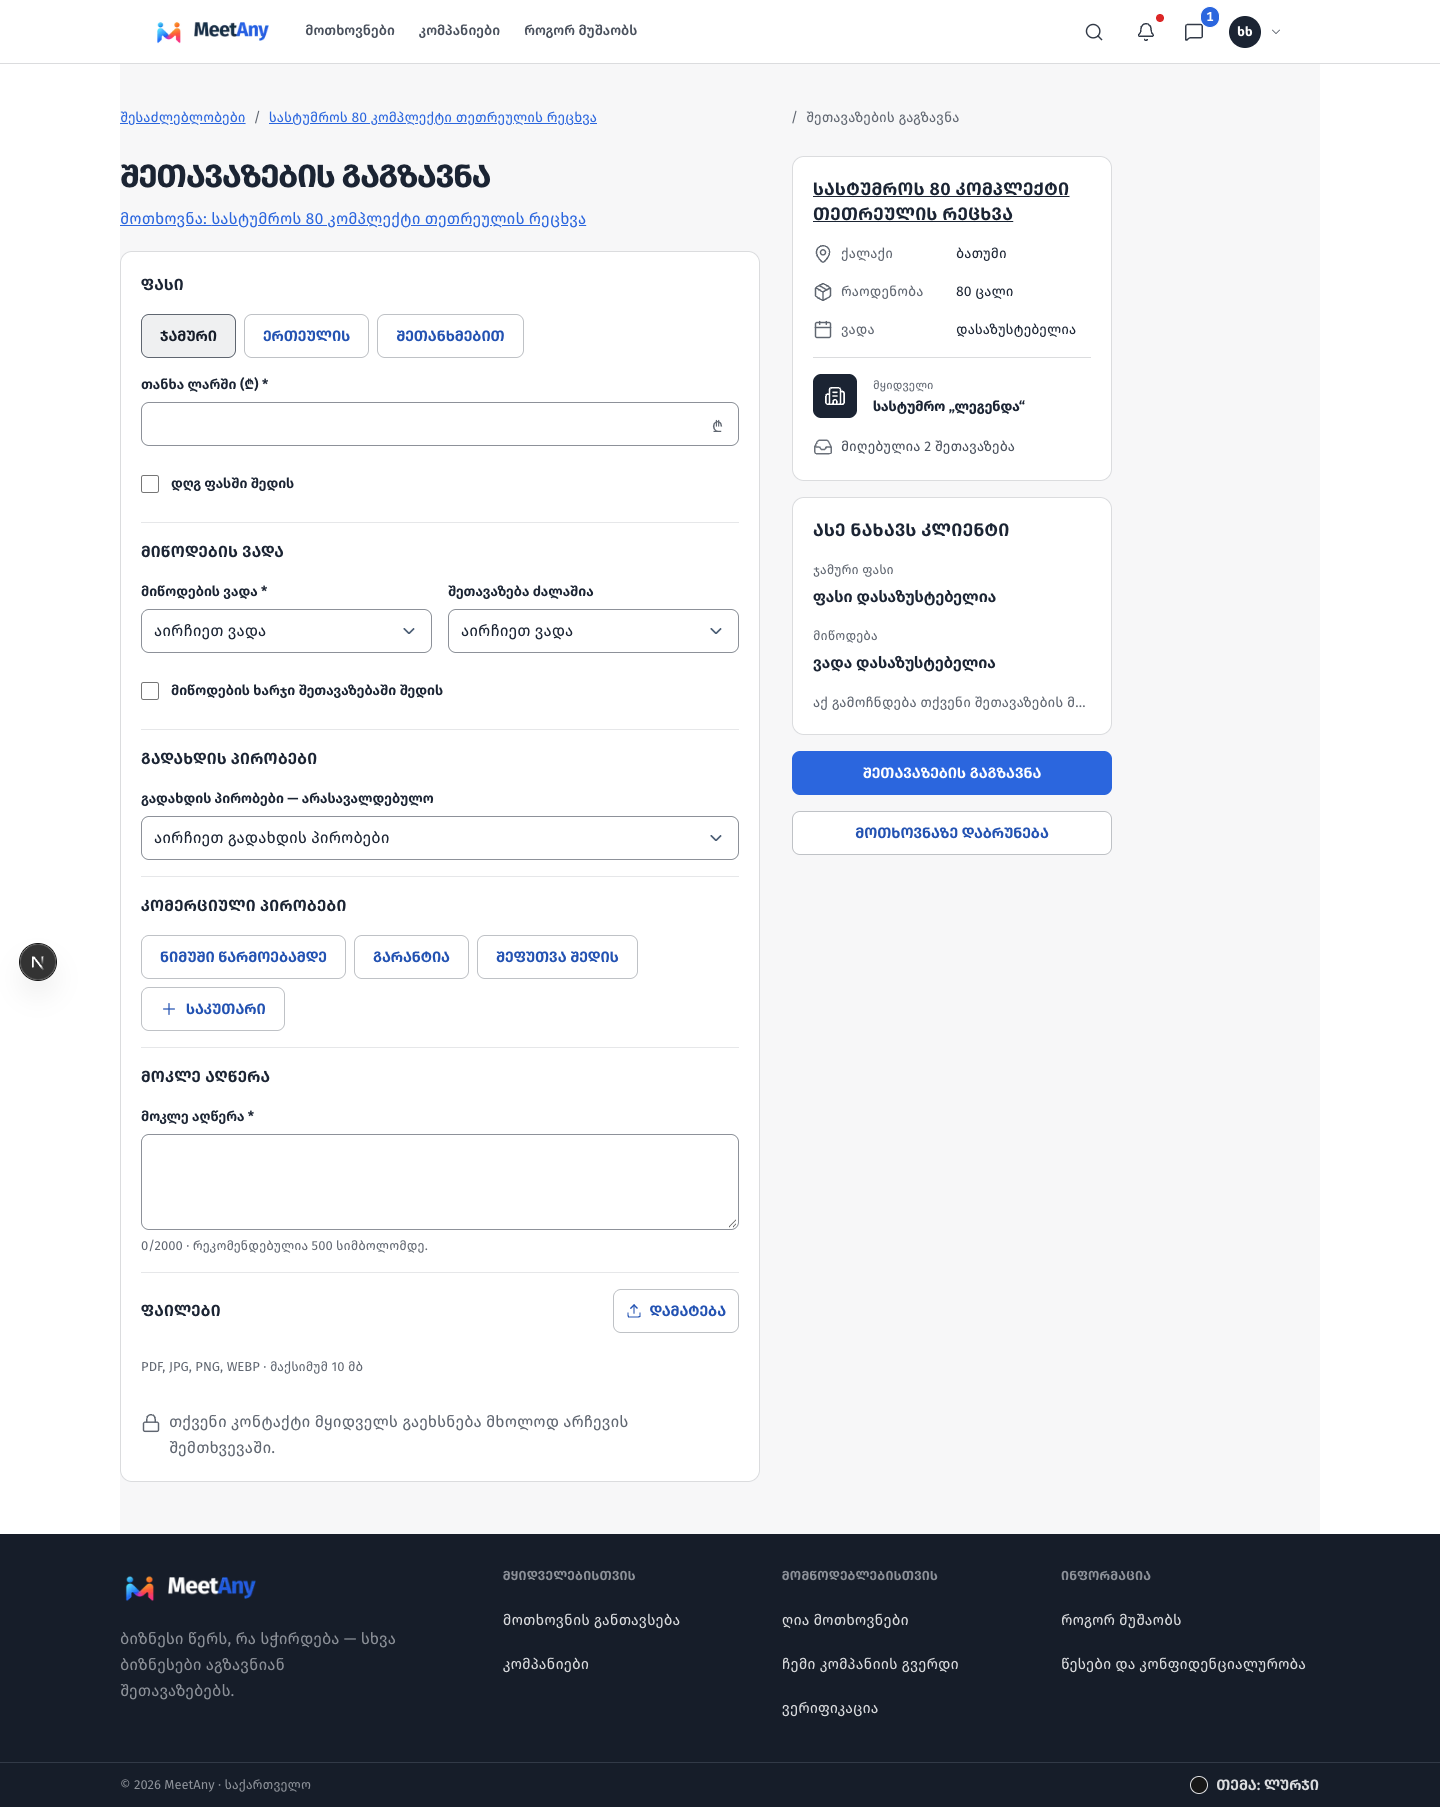
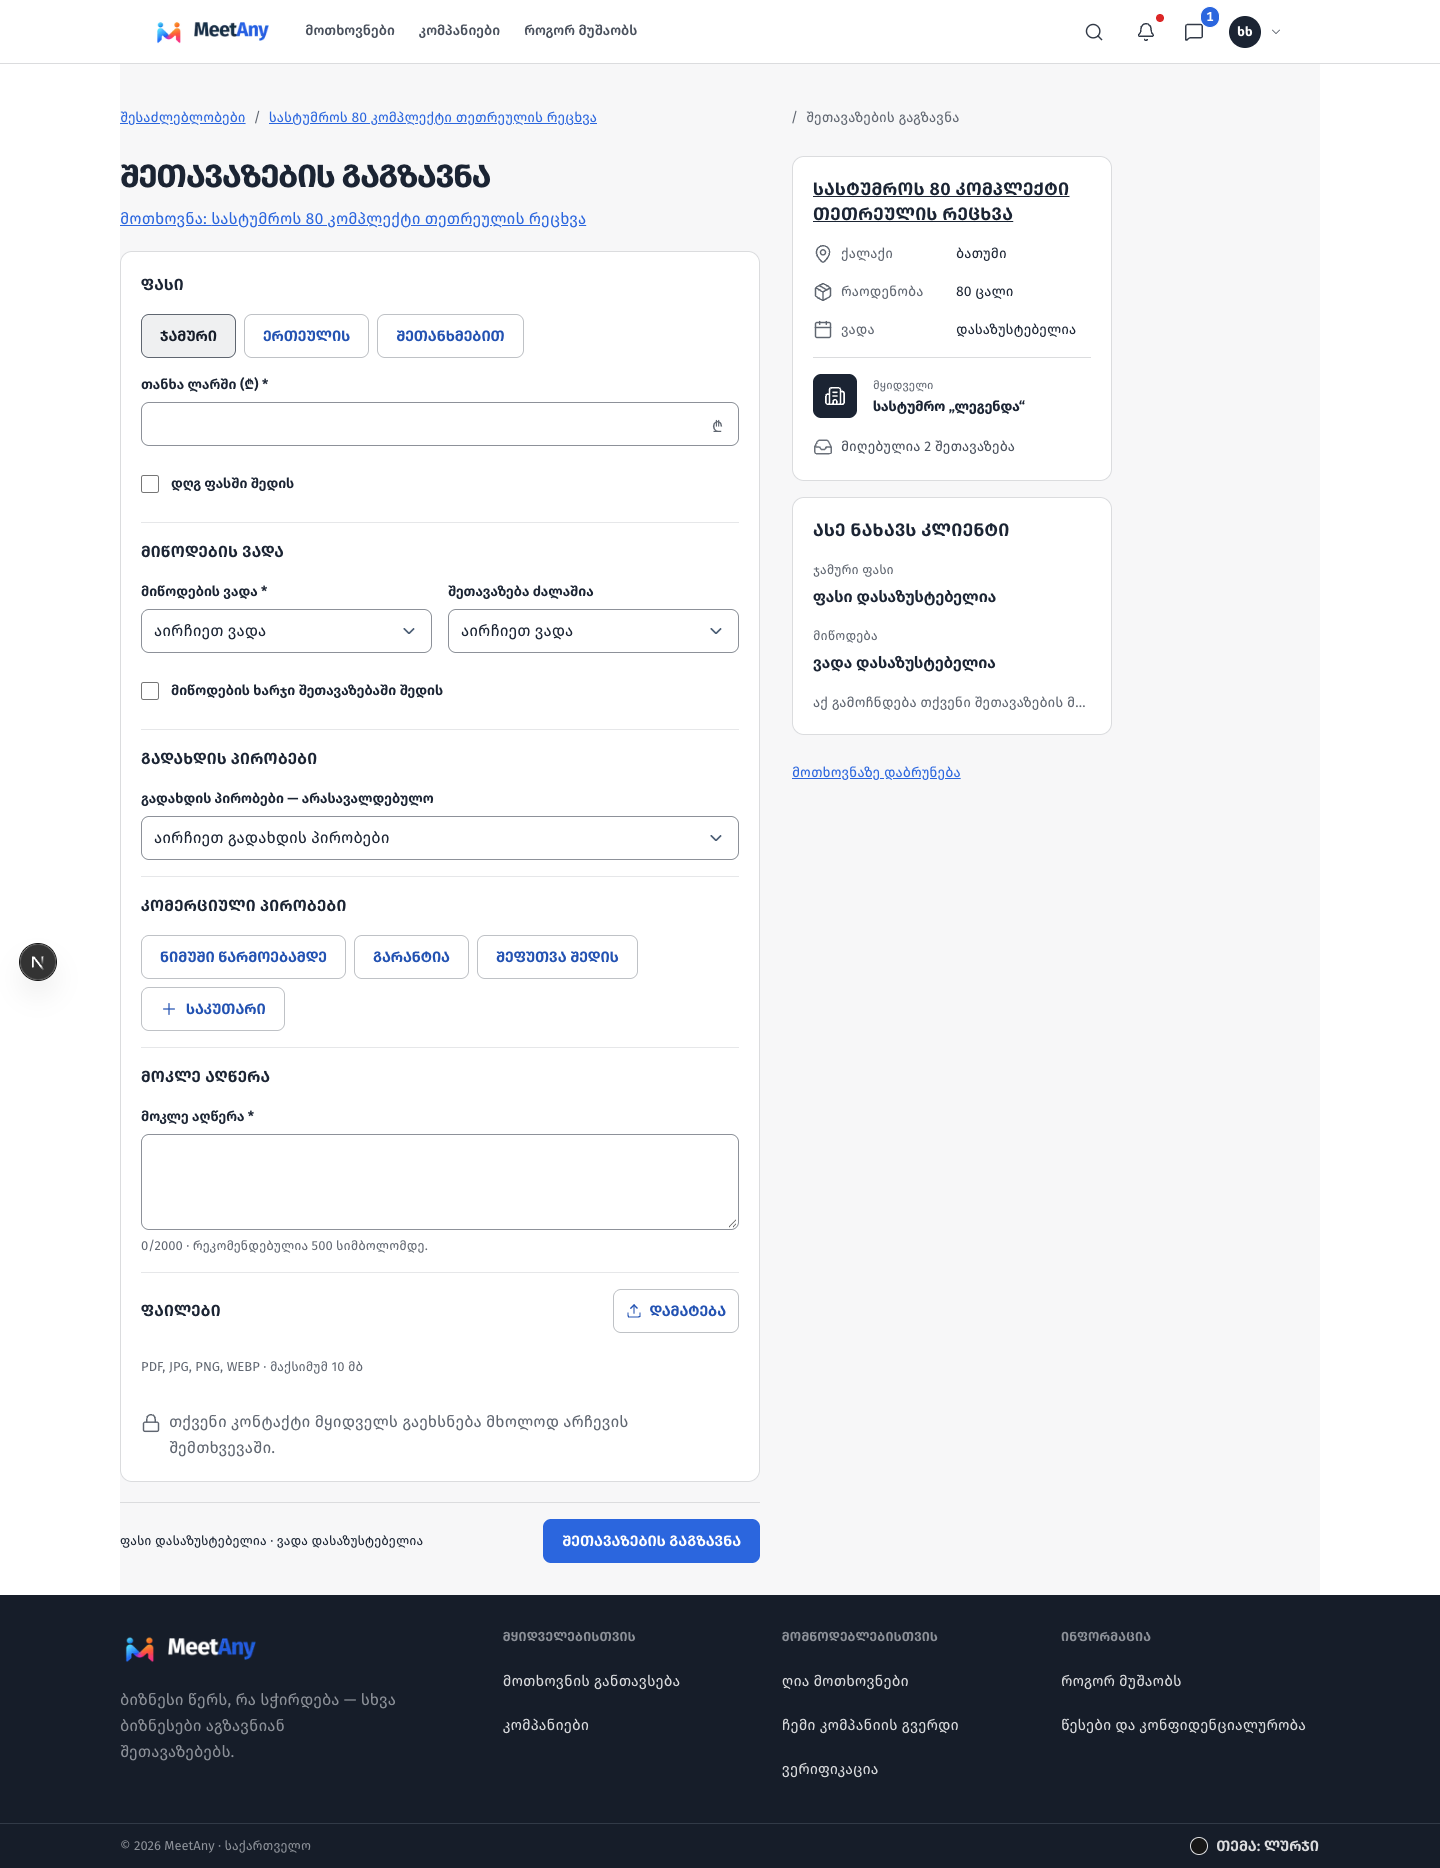
შეთავაზების QA: ერთადერთი submit-ის ფუტერში გადატანის შემოწმება
ThreadRig-Thread: დეტალი: მოთხოვნა და გარიგება
(cherry picked from commit edc8b8f0b5ce87fe7440079d70860adbbbde22db)

diff --git a/web/qa/LAYOUT-2026-10-14/detail/REPORT.md b/web/qa/LAYOUT-2026-10-14/detail/REPORT.md
@@ -6,14 +6,14 @@
 
 - მოთხოვნა: სათაური canvas-ზე, საერთო სტატუსის ნიშნით; ფაქტები კატეგორია → ქალაქი → რაოდენობა → ვადა. `h1` 390/360/320-ზე იწყება 112px-ზე. ბიუჯეტი შენარჩუნებულია გვერდით შეჯამებაში, მიწოდების თარიღი და დახურული მისამართი — აღწერაში. Breadcrumb ერთ ხაზზეა; 20px ტექსტს 44px შეხების არე აქვს. ძირითადი სვეტის gap ერთ `--block-gap` წესზეა; პანელი 320px და sticky. მსგავსი მოთხოვნები დესკტოპზე ძირითად სვეტშია, მობილურზე კონტაქტის შემდეგ. ქვედა მოქმედების ზოლი <1024-ზე რჩება.
 - გარიგება: გვერდის padding `--page-pad-y`, ბარათები `--card-pad`, ნაბიჯები `--card-pad-sm`, სვეტების დაშორება `--form-panel-gap`. სათაური კონტექსტის წინ გადავიდა. ნაბიჯები და მოქმედებები უცვლელია.
-- შეთავაზების შექმნა/რედაქტირება: `FormLayout` — 640px სვეტი + 32px gap + 320px sticky პანელი. პანელში მოთხოვნა, ფაქტები, მყიდველი, მიმდინარე ფასი/ვადა/აღწერის პირველი ხაზი და ერთი ძირითადი CTAა. მობილურზე preview ჩაკეცილია ფორმის ქვემოთ, რათა შევსებას არ უშლიდეს; submit ქვედა sticky ზოლშია.
+- შეთავაზების შექმნა/რედაქტირება: `FormLayout` — 640px სვეტი + 32px gap + 320px sticky პანელი. პანელში მოთხოვნა, ფაქტები, მყიდველი, მიმდინარე ფასი/ვადა/აღწერის პირველი ხაზი და დაბრუნების მეორადი ბმულია. მთავარი სესიის დაზუსტების მიხედვით, ერთი ძირითადი CTA მხოლოდ ფორმის ფუტერშია; aside-ში მოქმედების ღილაკი აღარ არის. მობილურზე preview ჩაკეცილია ფორმის ქვემოთ, რათა შევსებას არ უშლიდეს; submit ქვედა sticky ზოლშია.
 - `SendOfferForm`-ს დაემატა `formId` და `renderLayout(form, state)`. preview პირდაპირ იმავე `values`-ს კითხულობს; გარე CTA იმავე pending/fileBusy/conflict/loading/completed ბლოკირებებს იყენებს. API/RPC, დრაფტის აღდგენა, ნაწილობრივი შენახვის დასრულება და რედაქტირების ლოგიკა უცვლელია.
 - შედარება: ბარათებისა და ცხრილის სემანტიკური დაშორებები; ვალიდური `dl` და ვერიფიკაციის ნიშნის `role=img`. ცხრილის შიდა ჰორიზონტალური სქროლი რჩება, გვერდის overflow — 0.
 - ChooseOfferSheet დახურვის ანიმაციის დასრულებამდე აღარ იშლება DOM-იდან: კლავიატურის ფოკუსი არჩევის ღილაკზე ბრუნდება.
 
 ## ფარგლები და წინაპირობები
 
-საკუთარი commit-ები: `2aad998` (მოთხოვნა), `c7314bf` (გარიგება), `4b93be4` (ფორმა/შედარება), `665d63c` (ფორმის არსებული ტიპოგრაფიის შენარჩუნება), ცალკე QA commit.
+საკუთარი commit-ები: `2aad998` (მოთხოვნა), `c7314bf` (გარიგება), `4b93be4` (ფორმა/შედარება), `665d63c` (ფორმის არსებული ტიპოგრაფიის შენარჩუნება), `a9b7a54` (საწყისი QA), `3093872` (ერთი primary მხოლოდ ფორმის ფუტერში), შემდგომი QA commit.
 
 მიღებულია `42113ef` → `e54ca9e` (ფუტერი/საერთო გვერდის padding), `24b4fe0` → `81bbe65` (OpportunityCard). ეს ორი სხვა ნაკადის commit-ია.
 
@@ -37,7 +37,7 @@ Before: `../before/measure-{guest,client,company}.json`. After: `after/measure-*
 
 | რეალური ფორმა | დამატებითი before | after | შემცირება |
 |---|---:|---:|---:|
-| 1440px | 2219px | 1807px | 18.6% |
+| 1440px | 2219px | 1868px | 15.8% |
 | 390px | 2950px | 2266px | 23.2% |
 | 360px | 3078px | 2330px | 24.3% |
 
@@ -51,7 +51,7 @@ Before: `../before/measure-{guest,client,company}.json`. After: `after/measure-*
 - კლავიატურა: chat-thread, ChooseOfferSheet, confirm-close, ორივე თემა და ორივე სიგანე — **12/12**. ფოკუსის დაბრუნება შემოწმებულია.
 - `verify.json`: **30 გვერდი/viewport კომბინაცია** 1440/980/390/360/320-ზე, overflow **0**, pageerror **0**, 12 დამატებითი შემოწმება წარმატებულია (შედარების axe, ცოცხალი preview, გარე submit-ის ვალიდაცია, თანხის ერთეულზე გადათვლა, შეთანხმებითი ფასი, რედაქტირება).
 - `overlay.json`: ლოკალური JWT-ით შეტყობინებებისა და პროფილის **25 პანელი**, 1440/980/390-ზე, request/compare/deal/offer გვერდებზე — overlaps **0**. მობილურზე პროფილი ჰედერში არ ჩანს, შეტყობინებები შემოწმებულია.
-- საბოლოო სათაურის CSS შესწორების შემდეგ ფორმის a11y და გაზომვა ხელახლა შესრულდა; `form-final.json` ინახავს კომპანიის 10 გვერდი/viewport კომბინაციას, ცოცხალი preview/რედაქტირების 6 შემოწმებასა და 12 პანელს — ყველაფერი წარმატებულია.
+- მოქმედების ფორმის ფუტერში გადატანის შემდეგ TypeScript, შეცვლილი კომპონენტის ESLint, lint:design, 133 ტესტი, ფორმის a11y და გაზომვა ხელახლა შესრულდა; `form-final.json` ინახავს კომპანიის 10 გვერდი/viewport კომბინაციას, ერთი submit-ის, ცოცხალი preview/რედაქტირების 6 შემოწმებასა და 12 პანელს — ყველაფერი წარმატებულია. DOM-ში ერთი submit არსებობს, ის `[data-form-footer]`-შია და aside-ში primary ღილაკი არ არის. გარე submit-ის ვალიდაცია არასწორ შევსებაზე ფასის ველზე აბრუნებს ფოკუსს.
 - `flow.json`: შეთავაზების გაგზავნა → რედაქტირება → შედარება → ChooseOfferSheet → გარიგება/განხილვა — **5/5**, pageerror **0**.
 
 Axe-ის `incomplete` ჩანაწერები შედეგებში შენარჩუნებულია (უმეტესად დახურული მენიუს `aria-controls` და ფონური/დაფარული ტექსტის კონტრასტი); ისინი დადასტურებულ violations-ში არ ითვლება. გვერდები და სამი დიალოგი ვიზუალურადაც გადახედილია. ადრეულ პარალელურ გაშვებებში დაფიქსირებული session-readiness timeout-ების შემდეგ dev სერვერი Node 22-ზე გადაერთო და საბოლოო აუდიტები თანმიმდევრულად დასრულდა.
